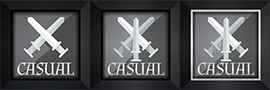
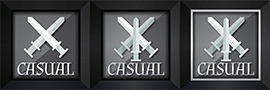
Button update, music, build, sell etc

diff --git a/game.main.js b/game.main.js
@@ -311,7 +311,7 @@ window.onload = function(){
         {id: "btnSheetBlaBlaRace", src: "img/buttons/shtBtnBlablas.png"},
         {id: "btnSheetPlebRace", src: "img/buttons/shtBtnPlebs.png"},
         {id: "btnSheetCancel", src: "img/buttons/shtBtnCancel.png"},
-        {id: "btnSheetHelp", src: "img/buttons/shtHelpBtn.png"},
+        {id: "btnSheetHelp", src: "img/buttons/shtBtnHelp.png"},
         {id: "btnSheetCasual", src: "img/buttons/shtBtnCasual.png"},
         {id: "btnSheetRanked", src: "img/buttons/shtBtnRanked.png"},
         {id: "btnSheetLocked", src: "img/buttons/shtBtnLocked.png"},
@@ -321,7 +321,13 @@ window.onload = function(){
         {id: "btnSheetDecline", src: "img/buttons/shtBtnDecline.png"},
         {id: "btnSheetChat", src: "img/buttons/shtBtnChat.png"},
         {id: "btnSheetFriends", src: "img/buttons/shtBtnFriends.png"},
-        {id: "btnSheetBuild", src: "img/buttons/shtBtnCasual.png"},
+        {id: "btnSheetBuild", src: "img/buttons/shtBtnBuild.png"},
+        {id: "btnSheetStart", src: "img/buttons/shtBtnStart.png"},
+        {id: "btnSheetStop", src: "img/buttons/shtBtnStop.png"},
+        {id: "btnSheetSell", src: "img/buttons/shtBtnSell.png"},
+        {id: "btnSheetLeft", src: "img/buttons/shtBtnLeft.png"},
+        {id: "btnSheetMusic", src: "img/buttons/shtBtnMusic.png"},
+        {id: "btnSheetContinue", src: "img/buttons/shtBtnContinue.png"},
 
         {id: "btnSheetPlebGround1", src: "img/buttons/shtBtnPlebGround1.png"},
         {id: "btnSheetPlebGround2", src: "img/buttons/shtBtnPlebGround2.png"},
@@ -580,10 +586,64 @@ function handleComplete(event) {
                                    animations: { out: 0, over: 1, down: 2 }
                                });
 
+    buttons.Continue = new createjs.SpriteSheet({
+                                   images: [preload.getResult("btnSheetContinue")],
+                                   frames: {width: 240, height: 90},
+                                   animations: { out: 0, over: 1, down: 2 }
+                               });
+
     buttons.btnLocked = new createjs.SpriteSheet({
                                    images: [preload.getResult("btnSheetLocked")],
                                    frames: {width: 240, height: 90},
                                    animations: { out: 0, over: 1, down: 2 }
+                               });
+
+    buttons.Build = new createjs.SpriteSheet({
+                                   images: [preload.getResult("btnSheetBuild")],
+                                   frames: {width: 90, height: 90},
+                                   animations: { out: 0, over: 1, down: 2 }
+                               });
+
+    buttons.Start = new createjs.SpriteSheet({
+                                   images: [preload.getResult("btnSheetStart")],
+                                   frames: {width: 70, height: 70},
+                                   animations: { out: 0, over: 1, down: 2 }
+                               });
+
+    buttons.Stop = new createjs.SpriteSheet({
+                                   images: [preload.getResult("btnSheetStop")],
+                                   frames: {width: 70, height: 70},
+                                   animations: { out: 0, over: 1, down: 2 }
+                               });
+
+    buttons.Sell = new createjs.SpriteSheet({
+                                   images: [preload.getResult("btnSheetSell")],
+                                   frames: {width: 70, height: 70},
+                                   animations: { out: 0, over: 1, down: 2 }
+                               });
+
+    buttons.MusicOn = new createjs.SpriteSheet({
+                                   images: [preload.getResult("btnSheetMusic")],
+                                   frames: {width: 70, height: 70},
+                                   animations: { out: 0, over: 1, down: 1 }
+                               });
+
+    buttons.MusicOff = new createjs.SpriteSheet({
+                                   images: [preload.getResult("btnSheetMusic")],
+                                   frames: {width: 70, height: 70},
+                                   animations: { out: 1, over: 0, down: 0 }
+                               });
+
+    buttons.Music = new createjs.SpriteSheet({
+                                   images: [preload.getResult("btnSheetMusic")],
+                                   frames: {width: 70, height: 70},
+                                   animations: { out: 0, over: 1, down: 1 }
+                               });
+
+    buttons.Left = new createjs.SpriteSheet({
+                                   images: [preload.getResult("btnSheetLeft")],
+                                   frames: {width: 70, height: 70},
+                                   animations: { out: 0, over: 1, down: 1 }
                                });
 
     tilePlebGround = new createjs.Sprite(new createjs.SpriteSheet(data), "walkBot");

diff --git a/assets/js/gameOverlay.js b/assets/js/gameOverlay.js
@@ -11,7 +11,7 @@ var p = createjs.extend(GameOverlay, createjs.Container);
 p.setup = function() {
     var outer = this;
 
-    var btnBuild =  new InitButton("btnBuild", buttons.btnCasual, function() {
+    var btnBuild =  new InitButton("btnBuild", buttons.Build, function() {
         var btnCont = outer.getChildByName('btnContainer');
         btnCont.visible = true;
 
@@ -107,8 +107,9 @@ p.setup = function() {
     // pos.x = 500;
 
     //building stop production--------------------------------------------------------
-    var stopProduction = new Button1('Start/Stop Prod.', '#fff', null, function(){
-        if(userCurrentSelection){
+    
+    var stopProduction =  new InitButton('btnStopProduction', buttons.Stop, function(){
+        //instanceData.buildings[i].producing ? buttons.Start : buttons.Stop
             for(var i = 0, len = instanceData.buildings.length; i < len; i++){
                 if(instanceData.buildings[i].name == userCurrentSelection){
                     instanceData.buildings[i].producing = !instanceData.buildings[i].producing;
@@ -116,19 +117,19 @@ p.setup = function() {
             }
 
             assets.sendData();
-        }
     });
 
     stopProduction.name = 'btnStopProduction';
-    stopProduction.y = 630;
-    stopProduction.x = 650;
+    stopProduction.x = 620;
+    stopProduction.y = 565;
+    
 
     if(!userCurrentSelection){
         stopProduction.visible = false;
     }
 
     //building destroy --------------------------------------------------------------
-    var destroyBuilding = new Button1('Destroy', '#fff', null, function(){
+    var destroyBuilding =  new InitButton('Destroy', buttons.Sell, function(){
         if(userCurrentSelection){
             for(var i = 0, len = instanceData.buildings.length; i < len; i++){
                 if(instanceData.buildings[i].name == userCurrentSelection){
@@ -142,8 +143,9 @@ p.setup = function() {
     });
 
     destroyBuilding.name = 'btnDestroyBuilding';
-    destroyBuilding.y = 680;
-    destroyBuilding.x = 650;
+    destroyBuilding.x = stopProduction.x;
+    destroyBuilding.y = stopProduction.y+70+10;
+
 
     this.addChild(money, selection, stopProduction, destroyBuilding);
 };

diff --git a/assets/js/debugScreen.js b/assets/js/debugScreen.js
@@ -22,10 +22,6 @@ p.setup = function() {
     var btnDebug1 = new InitButton('debug', null, function() { mainPanel.hide(); assets.sendMSG('user_login', {name: 'jesus', pass: 'jesus'}) });
         btnDebug1.x = 256;
         btnDebug1.y = 300;
-        
-    // var btnDebug2 = new Button1("Debug B", "#00F", null, function() { mainPanel.hide(); assets.sendMSG('user_login', {name: 'vvvv', pass: 'vvvv'}) });
-    //     btnDebug2.x = 256;
-    //     btnDebug2.y = 350;
 
    if(debug){
     this.addChild(btnDebug1);

diff --git a/assets/js/assets.js b/assets/js/assets.js
@@ -489,7 +489,7 @@
             text.x = (1280/2) - (text.getMeasuredWidth()/2) ;
             text.y = 720/2;
 
-            var cont = new Button1('Continue', '#fff', null, function(){
+            var cont =  new InitButton('Continue', buttons.Continue, function(){
                 hideGameInstance();
                 showMenu();    
             });

diff --git a/assets/js/menuScreen.js b/assets/js/menuScreen.js
@@ -143,7 +143,7 @@ p.setup = function() {
     btnLogOut.x = 1200;
     btnLogOut.y = 10;
 
-    var btnSound =  new InitButton("sound", buttons.Logout, function() {
+    var btnSound =  new InitButton("sound", buttons.Music, function() {
         if(createjs.Sound.getVolume() == 0.2){
             createjs.Sound.setVolume(0);    
         }else{
